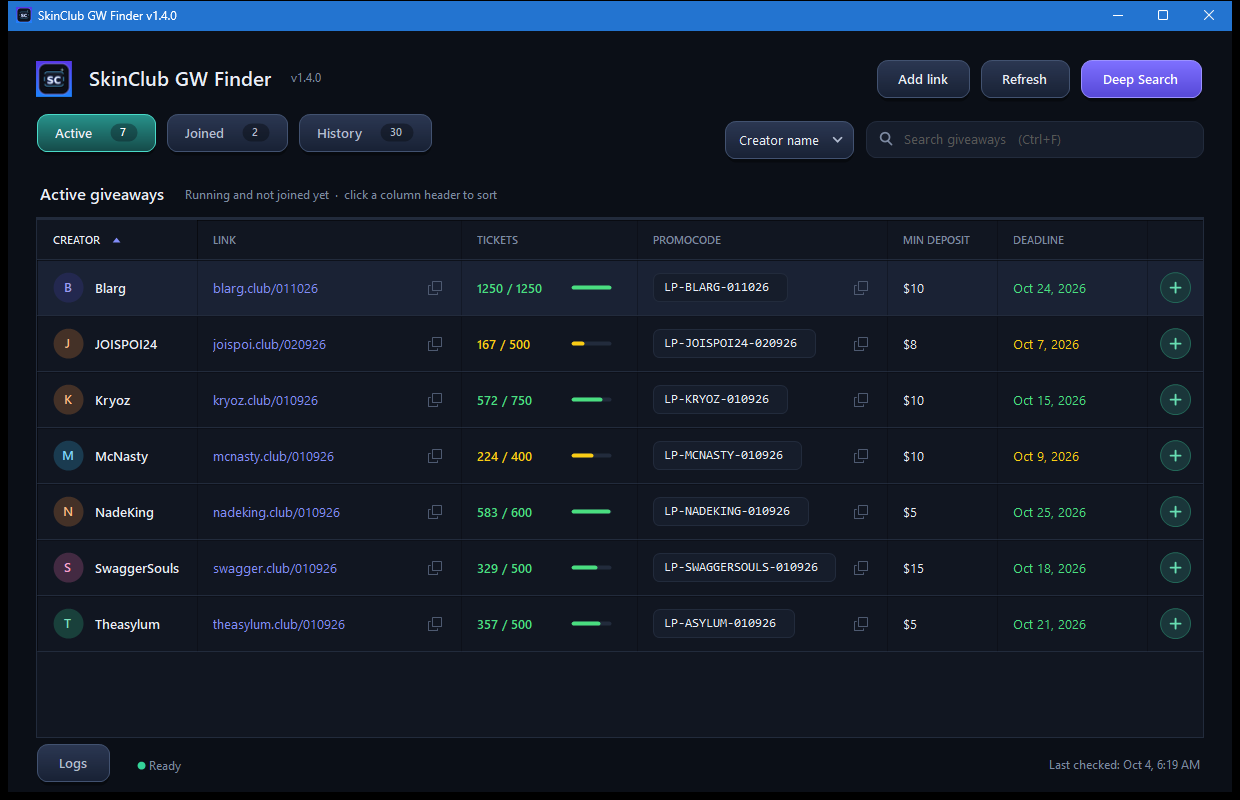
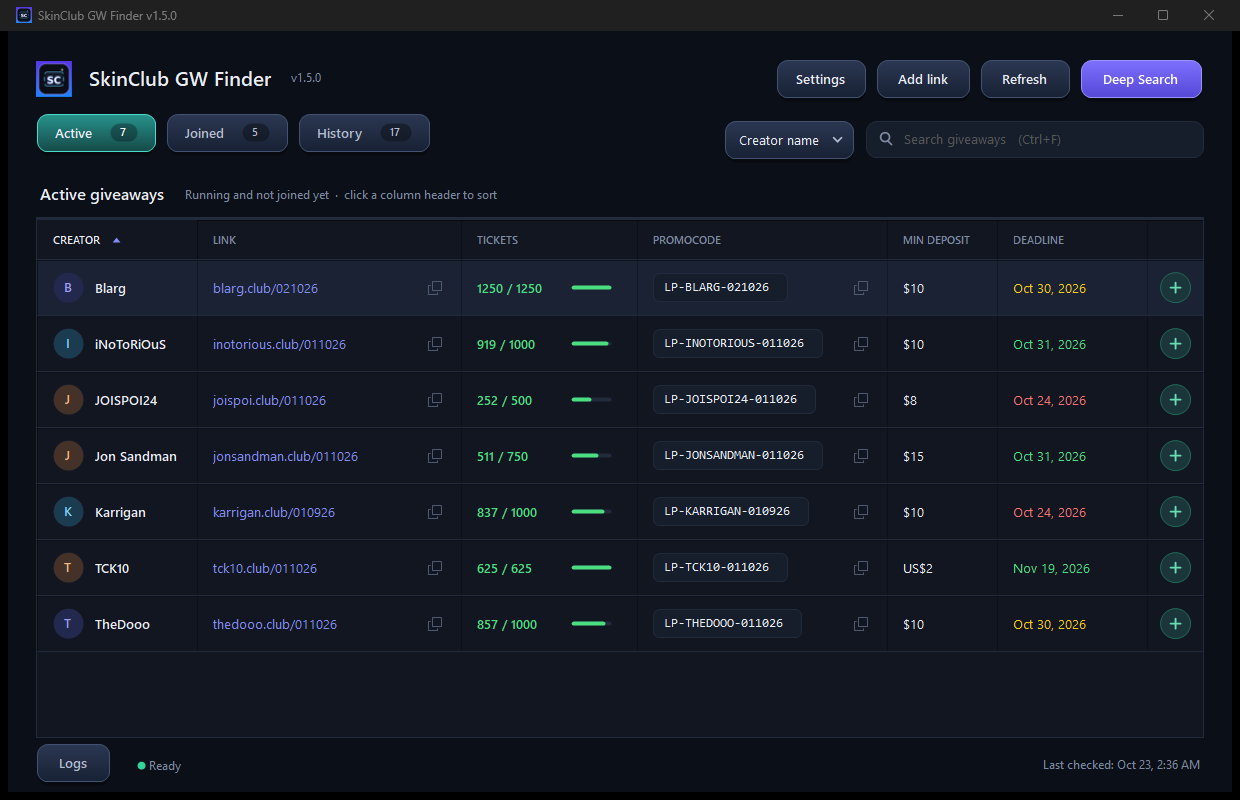
Release v1.5.0: history fixes, parallel browsers, never-miss retries, settings, notifications, new creators

diff --git a/src/Program.cs b/src/Program.cs
@@ -6,9 +6,9 @@ using System.Windows.Forms;
 [assembly: AssemblyTitle("SkinClub GW Finder")]
 [assembly: AssemblyProduct("SkinClub GW Finder")]
 [assembly: AssemblyDescription("SkinClub creator giveaway monitor")]
-[assembly: AssemblyVersion("1.4.0.0")]
-[assembly: AssemblyFileVersion("1.4.0.0")]
-[assembly: AssemblyInformationalVersion("1.4.0")]
+[assembly: AssemblyVersion("1.5.0.0")]
+[assembly: AssemblyFileVersion("1.5.0.0")]
+[assembly: AssemblyInformationalVersion("1.5.0")]
 
 namespace SkinClubGiveawayDesktop
 {

diff --git a/README.md b/README.md
@@ -13,7 +13,8 @@ It focuses on actual dated giveaway landing pages rather than creator homepages 
 - **Deep Search** across public sources, including YouTube, Telegram, web search, and known creator `.club` domains.
 - **Direct-page validation** before a giveaway is added to the tracker.
 - **Active / Joined / History workflow** for keeping giveaways organized.
-- **History limit:** keeps the 30 most recent entries by the time they entered History (falling back to last checked for older data). Excess entries are removed automatically on load and save; Joined giveaways are preserved.
+- **History:** shows each creator's latest ended giveaway (newest dated link) with its saved promocode and minimum deposit; older ones stay saved and can be shown again in Settings. The History size limit (30 by default, configurable) removes the oldest extras automatically, but never a creator's latest giveaway, and Joined giveaways are preserved.
+- **Never silently miss a giveaway:** failed or timed-out page checks are retried, requests per site are capped, and any page that still cannot be reached is re-checked and reported instead of being skipped.
 - **Joined exclusivity:** joining a giveaway removes it from Active or History and shows it only in Joined. Removing it from Joined restores it to its real Active/History state.
 - **Ticket tracking** with `remaining / total` values when available.
 - **Deadline parsing** with clean uppercase calendar dates.
@@ -40,7 +41,7 @@ Saved data lives in `%LOCALAPPDATA%\SkinClub GW Finder\data.json`; options are i
 
 The source is in `src/` (data store, scanner split into parsing/render/validate/discovery, UI, settings). `scripts/build.ps1` is the one place that compiles it; `BUILD_EXE.bat`, CI, the tests and the release script all call it, so new `.cs` files under `src/` are picked up automatically.
 
-Run `BUILD_EXE.bat` to compile and launch the app. Run `powershell -ExecutionPolicy Bypass -File scripts/package-release.ps1` to create release assets without launching it. Assets and upload instructions are written to `dist/v1.4.0/`.
+Run `BUILD_EXE.bat` to compile and launch the app. Run `powershell -ExecutionPolicy Bypass -File scripts/package-release.ps1` to create release assets without launching it. Assets and upload instructions are written to `dist/v1.5.0/`.
 
 Run `tests/run.ps1` for UI and persistence checks, `tests/run-browser.ps1` for process limits and cleanup checks, and `tests/run-live.ps1` to validate the four real September 2026 giveaway links. Live tests make network requests and can fail if those pages change or become unavailable. Tests do not modify your saved giveaways.
 

diff --git a/releases/v1.5.0.md b/releases/v1.5.0.md
@@ -1,0 +1,15 @@
+# SkinClub GW Finder v1.5.0
+
+## Highlights
+
+- **History fixed:** it now shows each creator's latest giveaway, with the correct entry promocode. Ended pages only show an unrelated code, so saved codes and deposits are no longer overwritten, and damaged entries are repaired on load.
+- **Never miss a giveaway:** failed or timed-out page checks are retried, requests per site are capped, unreachable pages are re-checked and reported in the status bar, and Deep Search no longer looks "complete" when something could not be read.
+- **Much faster Deep Search:** about 15 seconds instead of about 5 minutes with the same results (up to 6 pages load at once, with a 4 GB browser memory budget and Windows-enforced process limits).
+- **More creators:** iNoToRiOuS, TCK10, Karrigan and Theasylum added to the search list; `ExtraCreators` in `settings.json` adds more without recompiling.
+- **Settings dialog and `settings.json`:** refresh interval, History size, latest-only History, notifications, browser, timeouts and limits.
+- **Notifications:** optional Windows tray notice for new giveaways and giveaways ending today.
+- **Logs tab:** live page-check progress next to browser processes, updated twice a second.
+- **Reliability:** only one copy can run, crashes are written to `crash.log`, and silent errors now appear in the Logs tab.
+- **Project:** the source is split into `src/`, `scripts/build.ps1` is the single build entry point, and CI runs the UI and browser tests.
+
+Unsigned Windows build. Requires .NET Framework 4.8 and Edge or Chrome for rendered-page metadata. Back up `%LOCALAPPDATA%\SkinClub GW Finder\data.json` before upgrading; the first launch repairs damaged entry codes and keeps a copy as `data.json.before-code-repair`.

diff --git a/CHANGELOG.md b/CHANGELOG.md
@@ -1,6 +1,6 @@
 # Changelog
 
-## [Unreleased]
+## [1.5.0] - 2026-10-23
 
 - Only one copy of the app can run; starting another brings the first to the front.
 - Unhandled errors are logged to `crash.log`; empty `catch` blocks now log to the Logs tab.
